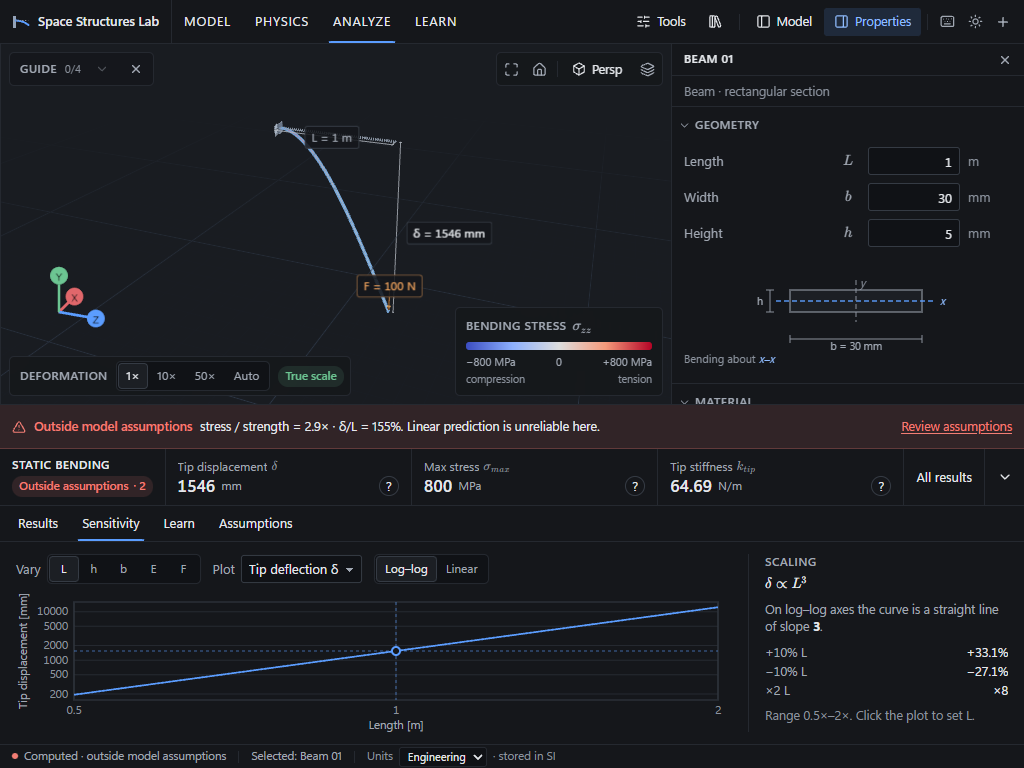
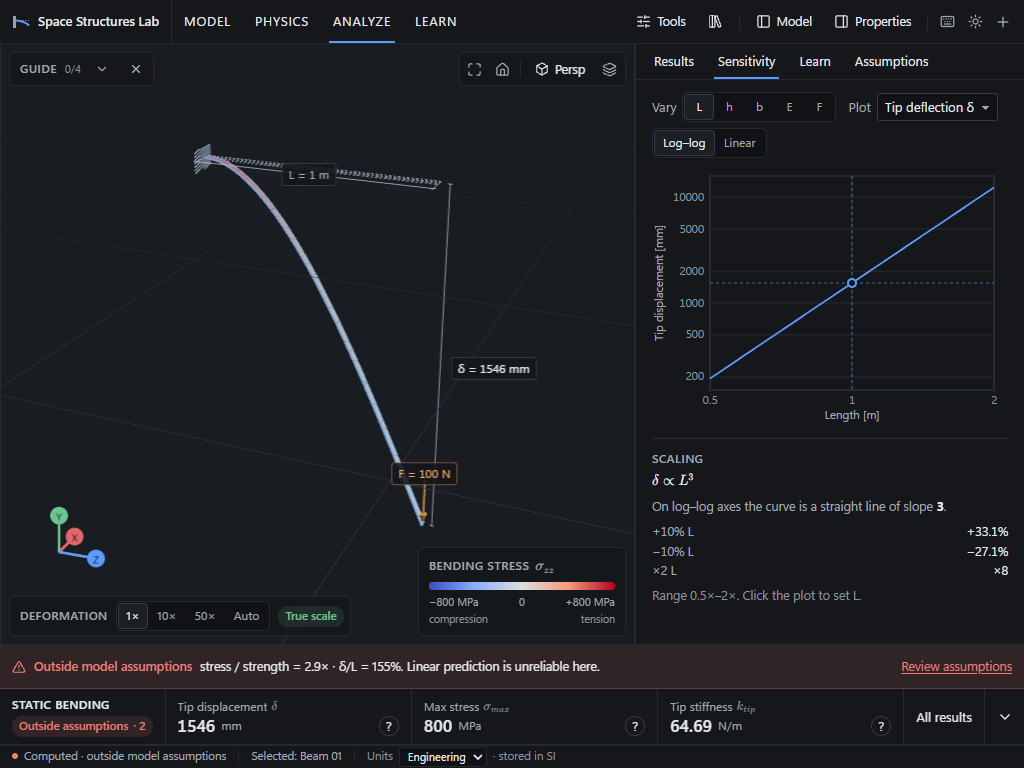
Keep laptop viewport prominent in analysis workspaces

diff --git a/src/features/shell/DesktopShell.tsx b/src/features/shell/DesktopShell.tsx
@@ -5,14 +5,14 @@
  *   analysis dock (result strip + tabs)
  *   status bar
  */
-import { lazy, Suspense, useEffect, useState } from "react";
+import { lazy, Suspense, useEffect, useRef, useState } from "react";
 import { Group, Panel, Separator, usePanelRef } from "react-resizable-panels";
 import { useLab, useSolved } from "@/state/store";
 import { Inspector } from "../inspector/Inspector";
 import { LibraryDialog } from "../library/Library";
 import { ModelTree } from "../tree/ModelTree";
 import { Onboarding } from "../viewport/Onboarding";
-import { Dock } from "./Dock";
+import { Dock, SideDock } from "./Dock";
 import { EmptyState } from "./EmptyState";
 import { StatusBar } from "./StatusBar";
 import { Ribbon, Toolbar } from "./Toolbar";
@@ -26,11 +26,24 @@ export function ViewportLoading() {
 export function DesktopShell() {
   const solved = useSolved();
   const hasModel = useLab((s) => s.doc !== null);
+  const workspace = useLab((s) => s.workspace);
+  const dockOpen = useLab((s) => s.dockOpen);
+  const setDockOpen = useLab((s) => s.setDockOpen);
+  const [laptop, setLaptop] = useState(() => matchMedia("(max-width: 1180px)").matches);
+  const sideWorkspace = laptop && (workspace === "analyze" || workspace === "learn") && !!solved?.ok;
+  const previousSideWorkspace = useRef(sideWorkspace);
   const tree = usePanelRef();
   const inspector = usePanelRef();
   const [panes, setPanes] = useState({ tree: false, inspector: false });
   const [toolsOpen, setToolsOpen] = useState(false);
   const [libraryOpen, setLibraryOpen] = useState(false);
+
+  useEffect(() => {
+    const query = matchMedia("(max-width: 1180px)");
+    const onChange = () => setLaptop(query.matches);
+    query.addEventListener("change", onChange);
+    return () => query.removeEventListener("change", onChange);
+  }, []);
 
   // Keep the first view focused. When a model exists, open its inspector so
   // the user can edit immediately; the model tree stays available on demand.
@@ -41,7 +54,27 @@ export function DesktopShell() {
     setPanes({ tree: false, inspector: hasModel });
   }, [hasModel, inspector, tree]);
 
+  useEffect(() => {
+    if (sideWorkspace && dockOpen) {
+      tree.current?.collapse();
+      inspector.current?.collapse();
+    } else if (previousSideWorkspace.current && !sideWorkspace && hasModel) {
+      // The panel group measures its new width after the side workspace leaves.
+      const timer = window.setTimeout(() => inspector.current?.expand(), 180);
+      previousSideWorkspace.current = sideWorkspace;
+      return () => window.clearTimeout(timer);
+    }
+    previousSideWorkspace.current = sideWorkspace;
+  }, [sideWorkspace, dockOpen, hasModel, inspector, tree]);
+
   const openInspector = () => {
+    if (sideWorkspace && dockOpen) {
+      setDockOpen(false);
+      window.setTimeout(() => {
+        if (!useLab.getState().dockOpen) inspector.current?.expand();
+      }, 180);
+      return;
+    }
     if (window.innerWidth < 1180) tree.current?.collapse();
     inspector.current?.expand();
   };
@@ -49,6 +82,13 @@ export function DesktopShell() {
   const toggle = (p: "tree" | "inspector") => {
     const ref = p === "tree" ? tree : inspector;
     if (ref.current?.isCollapsed()) {
+      if (sideWorkspace && dockOpen) {
+        setDockOpen(false);
+        window.setTimeout(() => {
+          if (!useLab.getState().dockOpen) ref.current?.expand();
+        }, 180);
+        return;
+      }
       // On laptop widths, keep one drawer open at a time so the viewport stays usable.
       if (window.innerWidth < 1180) {
         const other = p === "tree" ? inspector : tree;
@@ -75,8 +115,8 @@ export function DesktopShell() {
         </div>
       )}
 
-      <div className="min-h-0 flex-1">
-        <Group orientation="horizontal" className="desktop-panel-group h-full">
+      <div className="flex min-h-0 flex-1">
+        <Group orientation="horizontal" className="desktop-panel-group min-w-0 flex-1">
           <Panel
             id="tree"
             panelRef={tree}
@@ -140,9 +180,10 @@ export function DesktopShell() {
             </aside>
           </Panel>
         </Group>
+        {sideWorkspace && dockOpen && solved?.ok && <SideDock solved={solved.value} />}
       </div>
 
-      {solved?.ok && <Dock solved={solved.value} />}
+      {solved?.ok && <Dock solved={solved.value} stripOnly={sideWorkspace} />}
       <StatusBar />
       <LibraryDialog open={libraryOpen} onOpenChange={setLibraryOpen} />
     </div>

diff --git a/src/features/shell/Dock.tsx b/src/features/shell/Dock.tsx
@@ -63,7 +63,7 @@ export function DockTabs({ compact = false }: { compact?: boolean }) {
   );
 }
 
-export function DockPanel({ solved }: { solved: SolvedDocument }) {
+export function DockPanel({ solved, compact = false }: { solved: SolvedDocument; compact?: boolean }) {
   const dockTab = useLab((s) => s.dockTab);
   return (
     <div
@@ -72,13 +72,13 @@ export function DockPanel({ solved }: { solved: SolvedDocument }) {
       aria-labelledby={`dock-tab-${dockTab}`}
       // Focusable so keyboard users can scroll it (WAI-ARIA tabs pattern).
       tabIndex={0}
-      className={"min-h-0 flex-1 px-4 py-3 " + (dockTab === "sensitivity" ? "overflow-hidden" : "overflow-y-auto")}
+      className={"min-h-0 flex-1 px-4 py-3 " + (dockTab === "sensitivity" && !compact ? "overflow-hidden" : "overflow-y-auto")}
       data-testid="dock-panel"
     >
-      {dockTab === "details" && <ResultDetails solved={solved} />}
-      {dockTab === "sensitivity" && <SensitivityPanel solved={solved} />}
-      {dockTab === "learn" && <LearnPanel solved={solved} />}
-      {dockTab === "assumptions" && <AssumptionsPanel solved={solved} />}
+      {dockTab === "details" && <ResultDetails solved={solved} compact={compact} />}
+      {dockTab === "sensitivity" && <SensitivityPanel solved={solved} compact={compact} />}
+      {dockTab === "learn" && <LearnPanel solved={solved} compact={compact} />}
+      {dockTab === "assumptions" && <AssumptionsPanel solved={solved} compact={compact} />}
     </div>
   );
 }
@@ -86,7 +86,16 @@ export function DockPanel({ solved }: { solved: SolvedDocument }) {
 /** Reading tabs need more room than the results table. Heights are per tab and user-resizable. */
 const DEFAULT_HEIGHT: Record<DockTab, number> = { details: 310, sensitivity: 340, learn: 430, assumptions: 370 };
 
-export function Dock({ solved }: { solved: SolvedDocument }) {
+export function SideDock({ solved }: { solved: SolvedDocument }) {
+  return (
+    <section className="side-workspace flex min-h-0 shrink-0 flex-col border-l border-line bg-panel" aria-label="Analysis workspace" data-testid="side-dock">
+      <DockTabs compact />
+      <DockPanel solved={solved} compact />
+    </section>
+  );
+}
+
+export function Dock({ solved, stripOnly = false }: { solved: SolvedDocument; stripOnly?: boolean }) {
   const dockOpen = useLab((s) => s.dockOpen);
   const dockTab = useLab((s) => s.dockTab);
   const setDockTab = useLab((s) => s.setDockTab);
@@ -117,12 +126,12 @@ export function Dock({ solved }: { solved: SolvedDocument }) {
   return (
     <section
       className="relative flex shrink-0 flex-col border-t border-line bg-panel transition-[height] duration-150 ease-out"
-      style={{ height: dockOpen ? height : closedHeight }}
+      style={{ height: dockOpen && !stripOnly ? height : closedHeight }}
       aria-label="Analysis and results"
       data-testid="dock"
       data-open={dockOpen || undefined}
     >
-      {dockOpen && (
+      {dockOpen && !stripOnly && (
         <div
           role="separator"
           aria-orientation="horizontal"
@@ -141,7 +150,7 @@ export function Dock({ solved }: { solved: SolvedDocument }) {
       <div className="shrink-0 border-b border-line">
         <ResultStrip solved={solved} />
       </div>
-      {dockOpen && (
+      {dockOpen && !stripOnly && (
         <>
           <DockTabs />
           <DockPanel solved={solved} />

diff --git a/src/features/sensitivity/SensitivityPanel.tsx b/src/features/sensitivity/SensitivityPanel.tsx
@@ -27,7 +27,7 @@ const signedPct = (r: number) => {
   return `${p >= 0 ? "+" : "−"}${formatNumber(Math.abs(p), 3)}%`;
 };
 
-export function SensitivityPanel({ solved }: { solved: SolvedDocument }) {
+export function SensitivityPanel({ solved, compact = false }: { solved: SolvedDocument; compact?: boolean }) {
   const { param, response, logScale } = useLab((s) => s.sensitivity);
   const setSensitivity = useLab((s) => s.setSensitivity);
   const setParameter = useLab((s) => s.setParameter);
@@ -46,8 +46,8 @@ export function SensitivityPanel({ solved }: { solved: SolvedDocument }) {
   const toY = (v: number) => formatNumber(toDisplay(v, yu), 3);
 
   return (
-    <div className="grid h-full min-h-0 grid-cols-[minmax(0,1fr)_260px] gap-x-4 max-[900px]:grid-cols-1" data-testid="sensitivity-panel">
-      <div className="flex min-h-0 flex-col">
+    <div className={compact ? "grid min-h-0 grid-cols-1 gap-y-4" : "grid h-full min-h-0 grid-cols-[minmax(0,1fr)_260px] gap-x-4 max-[900px]:grid-cols-1"} data-testid="sensitivity-panel">
+      <div className={compact ? "flex min-h-[330px] flex-col" : "flex min-h-0 flex-col"}>
         <div className="mb-2 flex flex-wrap items-center gap-x-3 gap-y-1.5">
           <div className="flex items-center gap-1.5">
             <span className="text-muted">Vary</span>
@@ -84,7 +84,7 @@ export function SensitivityPanel({ solved }: { solved: SolvedDocument }) {
             onChange={(v) => setSensitivity({ logScale: v === "log" })}
           />
         </div>
-        <div className="min-h-0 flex-1">
+        <div className={compact ? "h-[240px] min-h-0 flex-1" : "min-h-0 flex-1"}>
           <LineChart
             points={points}
             current={current}
@@ -99,7 +99,7 @@ export function SensitivityPanel({ solved }: { solved: SolvedDocument }) {
         </div>
       </div>
 
-      <aside className="min-h-0 overflow-y-auto border-l border-line pl-4 text-[12.5px] leading-snug max-[900px]:hidden">
+      <aside className={compact ? "border-t border-line pt-3 text-[12.5px] leading-snug" : "min-h-0 overflow-y-auto border-l border-line pl-4 text-[12.5px] leading-snug max-[900px]:hidden"}>
         <p className="caps mb-1">Scaling</p>
         <div className="mb-2 text-[13px] text-fg" data-testid="sens-law">
           {e === 0 ? (

diff --git a/src/features/learn/AssumptionsPanel.tsx b/src/features/learn/AssumptionsPanel.tsx
@@ -74,7 +74,28 @@ function describe(c: AssumptionCheck, s: SolvedDocument): { title: string; value
   return texts[c.id]();
 }
 
-export function AssumptionsPanel({ solved }: { solved: SolvedDocument }) {
+export function AssumptionsPanel({ solved, compact = false }: { solved: SolvedDocument; compact?: boolean }) {
+  if (compact) {
+    return (
+      <div data-testid="assumptions-panel">
+        <h3 className="caps mb-1 !text-fg">Euler–Bernoulli assumptions</h3>
+        <p className="mb-2 text-[12px] text-faint">Checked live against the current model</p>
+        {solved.checks.map((c) => {
+          const d = describe(c, solved);
+          return (
+            <section key={c.id} className="border-t border-line py-2.5 text-[12.5px] leading-snug" data-testid={`assumption-${c.id}`} data-status={c.status}>
+              <div className="mb-1 flex items-center gap-2">
+                {ICON[c.status]}
+                <strong className="font-medium text-fg">{d.title}</strong>
+                <span className="num ml-auto text-right text-muted">{d.value}</span>
+              </div>
+              <p className="pl-[23px] text-muted">{d.why}</p>
+            </section>
+          );
+        })}
+      </div>
+    );
+  }
   return (
     <div data-testid="assumptions-panel">
       <div className="mb-2 flex items-baseline gap-2">

diff --git a/tests/e2e/laptop-workspace.spec.ts b/tests/e2e/laptop-workspace.spec.ts
@@ -1,0 +1,23 @@
+import { expect, test } from "@playwright/test";
+import { freshModel } from "./helpers";
+
+test.use({ viewport: { width: 1024, height: 768 } });
+
+test("Analyze and Learn use a side workspace while the model keeps its inspector", async ({ page }) => {
+  await freshModel(page);
+  await page.getByTestId("ws-learn").click();
+  await expect(page.getByTestId("side-dock")).toBeVisible();
+  await expect.poll(async () => (await page.getByRole("main", { name: "Viewport" }).boundingBox())!.height).toBeGreaterThan(500);
+  await page.getByTestId("ws-model").click();
+  await expect(page.getByTestId("side-dock")).toHaveCount(0);
+  await expect(page.getByRole("button", { name: "Section properties" })).toBeVisible();
+
+  await page.getByTestId("ws-analyze").click();
+  await expect(page.getByTestId("side-dock")).toBeVisible();
+  await page.getByTestId("toggle-inspector").click();
+  await expect(page.getByTestId("side-dock")).toHaveCount(0);
+  await expect(page.getByRole("button", { name: "Section properties" })).toBeVisible();
+  await page.getByTestId("all-results").click();
+  await expect(page.getByTestId("side-dock")).toBeVisible();
+  await expect(page.getByTestId("result-details")).toBeVisible();
+});

diff --git a/src/features/learn/LearnPanel.tsx b/src/features/learn/LearnPanel.tsx
@@ -41,7 +41,7 @@ function Bullet({ lead, children }: { lead: ReactNode; children: ReactNode }) {
   );
 }
 
-export function LearnPanel({ solved }: { solved: SolvedDocument }) {
+export function LearnPanel({ solved, compact = false }: { solved: SolvedDocument; compact?: boolean }) {
   const system = useLab((s) => s.unitSystem);
   const hasEdit = useLab((s) => s.reference !== null);
   const r = solved.result;
@@ -57,7 +57,7 @@ export function LearnPanel({ solved }: { solved: SolvedDocument }) {
   );
 
   return (
-    <div className="grid grid-cols-3 gap-x-7 gap-y-5 text-[13px] leading-relaxed max-[1180px]:grid-cols-2 max-[640px]:grid-cols-1" data-testid="learn-panel">
+    <div className={compact ? "grid grid-cols-1 gap-y-5 text-[13px] leading-relaxed" : "grid grid-cols-3 gap-x-7 gap-y-5 text-[13px] leading-relaxed max-[1180px]:grid-cols-2 max-[640px]:grid-cols-1"} data-testid="learn-panel">
       {hasEdit && changeTopic}
       <Topic id="stiffness" title="Stiffness">
         <Eq tex="k_{tip} = \dfrac{3\,E\,I}{L^3}" />

diff --git a/src/features/results/ResultDetails.tsx b/src/features/results/ResultDetails.tsx
@@ -54,12 +54,12 @@ const GROUPS: { title: string; rows: Row[] }[] = [
   },
 ];
 
-export function ResultDetails({ solved }: { solved: SolvedDocument }) {
+export function ResultDetails({ solved, compact = false }: { solved: SolvedDocument; compact?: boolean }) {
   const system = useLab((s) => s.unitSystem);
   const ref = useReferenceResult();
   const r = solved.result;
   return (
-    <div className="grid grid-cols-3 gap-x-6 gap-y-4 max-[1100px]:grid-cols-2 max-[640px]:grid-cols-1" data-testid="result-details">
+    <div className={compact ? "grid grid-cols-1 gap-y-4" : "grid grid-cols-3 gap-x-6 gap-y-4 max-[1100px]:grid-cols-2 max-[640px]:grid-cols-1"} data-testid="result-details">
       {GROUPS.map((g) => (
         <section key={g.title} className="min-w-0">
           <h3 className="caps mb-1.5 !text-fg">{g.title}</h3>

diff --git a/tests/e2e/helpers.ts b/tests/e2e/helpers.ts
@@ -34,6 +34,7 @@ export const unit = (page: Page, key: string) => page.getByTestId(`unit-${key}`)
 
 /** Clicks the viewport at the screen position of a world point. */
 export async function clickWorld(page: Page, p: [number, number, number]) {
+  await page.waitForFunction(() => typeof window.__ssl?.project === "function");
   const [x, y] = await page.evaluate((pt) => window.__ssl!.project(pt), p);
   const box = (await page.locator("canvas").boundingBox())!;
   await page.mouse.click(box.x + x, box.y + y);

diff --git a/src/app/styles.css b/src/app/styles.css
@@ -365,6 +365,14 @@ select.input {
 .workspace-tools-wrap[data-open="true"] {
   height: 34px;
 }
+.side-workspace {
+  width: clamp(360px, 38vw, 420px);
+  animation: side-workspace-enter var(--t-med) var(--ease) both;
+}
+@keyframes side-workspace-enter {
+  from { opacity: 0; transform: translateX(10px); }
+  to { opacity: 1; transform: translateX(0); }
+}
 .drawer-panel {
   transition: flex-basis var(--t-med) var(--ease);
 }

diff --git a/docs/UI_VALIDATION_REPORT.md b/docs/UI_VALIDATION_REPORT.md
@@ -362,3 +362,37 @@ Final verification: all 32 Playwright tests passed (27 interaction/reference/
 accessibility and 5 visual captures); TypeScript passed; all 131 unit tests
 passed; the production Vite build succeeded. This is a browser review at the
 listed sizes, not a physical-device or manual screen-reader study.
+
+## 13. Laptop analysis workspace — 2026-09-24
+
+At 1024 × 768, the expanded bottom Learn/Analyze dock left only about 355 px
+of viewport height. The model and its deformation were cramped even though the
+reading panel had more horizontal space than its content needed.
+
+Analyze and Learn now open as a 389 px right workspace at laptop widths
+(768–1180 px). The three primary results and the model-validity notice stay
+in the bottom strip. The viewport retains roughly 600 px of height and 635 px
+of width at 1024 × 768. Results, Sensitivity, Learn, and Assumptions share
+the right workspace's tabs. Their existing content uses a single-column
+layout there: graph with scaling notes below, equations stacked vertically,
+and full assumption explanations under each live check.
+
+The Model and Properties toolbar controls close the side workspace before
+opening their drawers. “All results,” the result-strip expander, and the
+contextual tools reopen it. Moving back to Model/Physics restores Properties.
+The wide desktop and phone layouts keep their prior composition. The new
+workspace entrance uses the existing 180 ms motion token and respects reduced
+motion settings.
+
+Reviewed regenerated 1024 × 768 screenshots for Learn, Results, Sensitivity,
+Why?, and Inspector. The viewport remains central, result values and chart
+labels are readable, and the page has no horizontal overflow or console
+errors. A browser regression flow covers Learn → Model, Analyze → Properties,
+and returning to Results. Physical-device and manual screen-reader review
+remain outstanding.
+
+Final verification: 33 Playwright flows, 131 unit tests, TypeScript, and the
+production Vite build passed. One transient browser-test failure during an
+earlier run came from the development-only viewport hook not being ready after
+a page refresh; the point-click helper now waits for the hook. The complete
+suite passed on the subsequent run.
